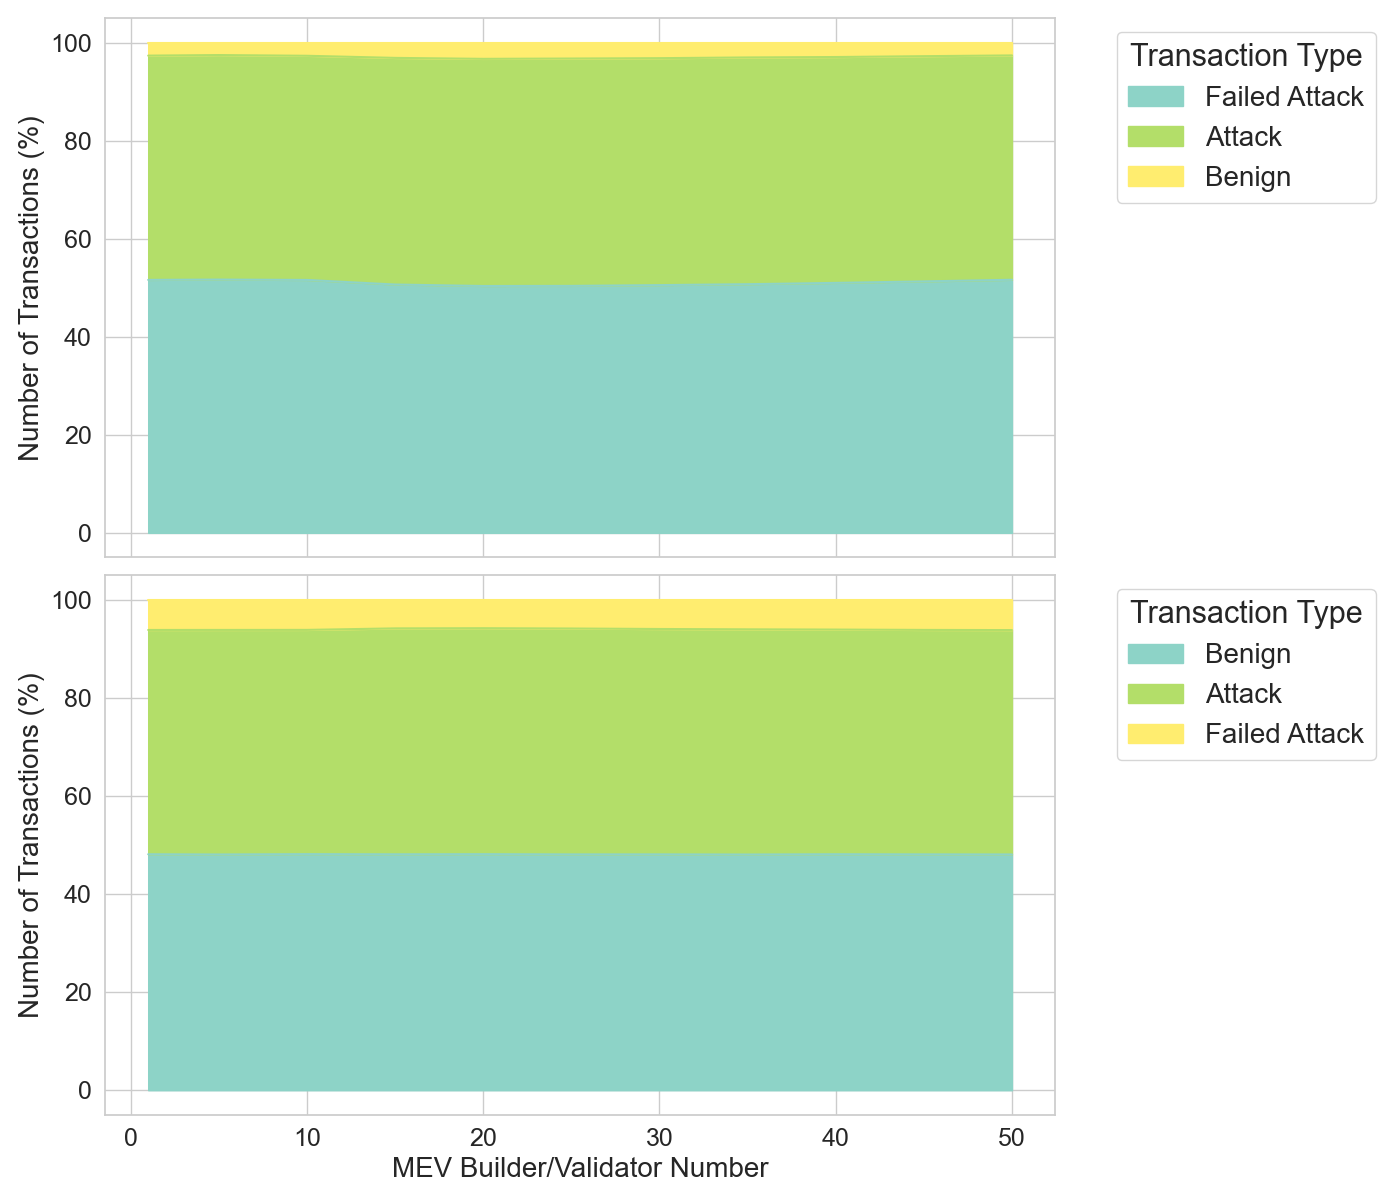
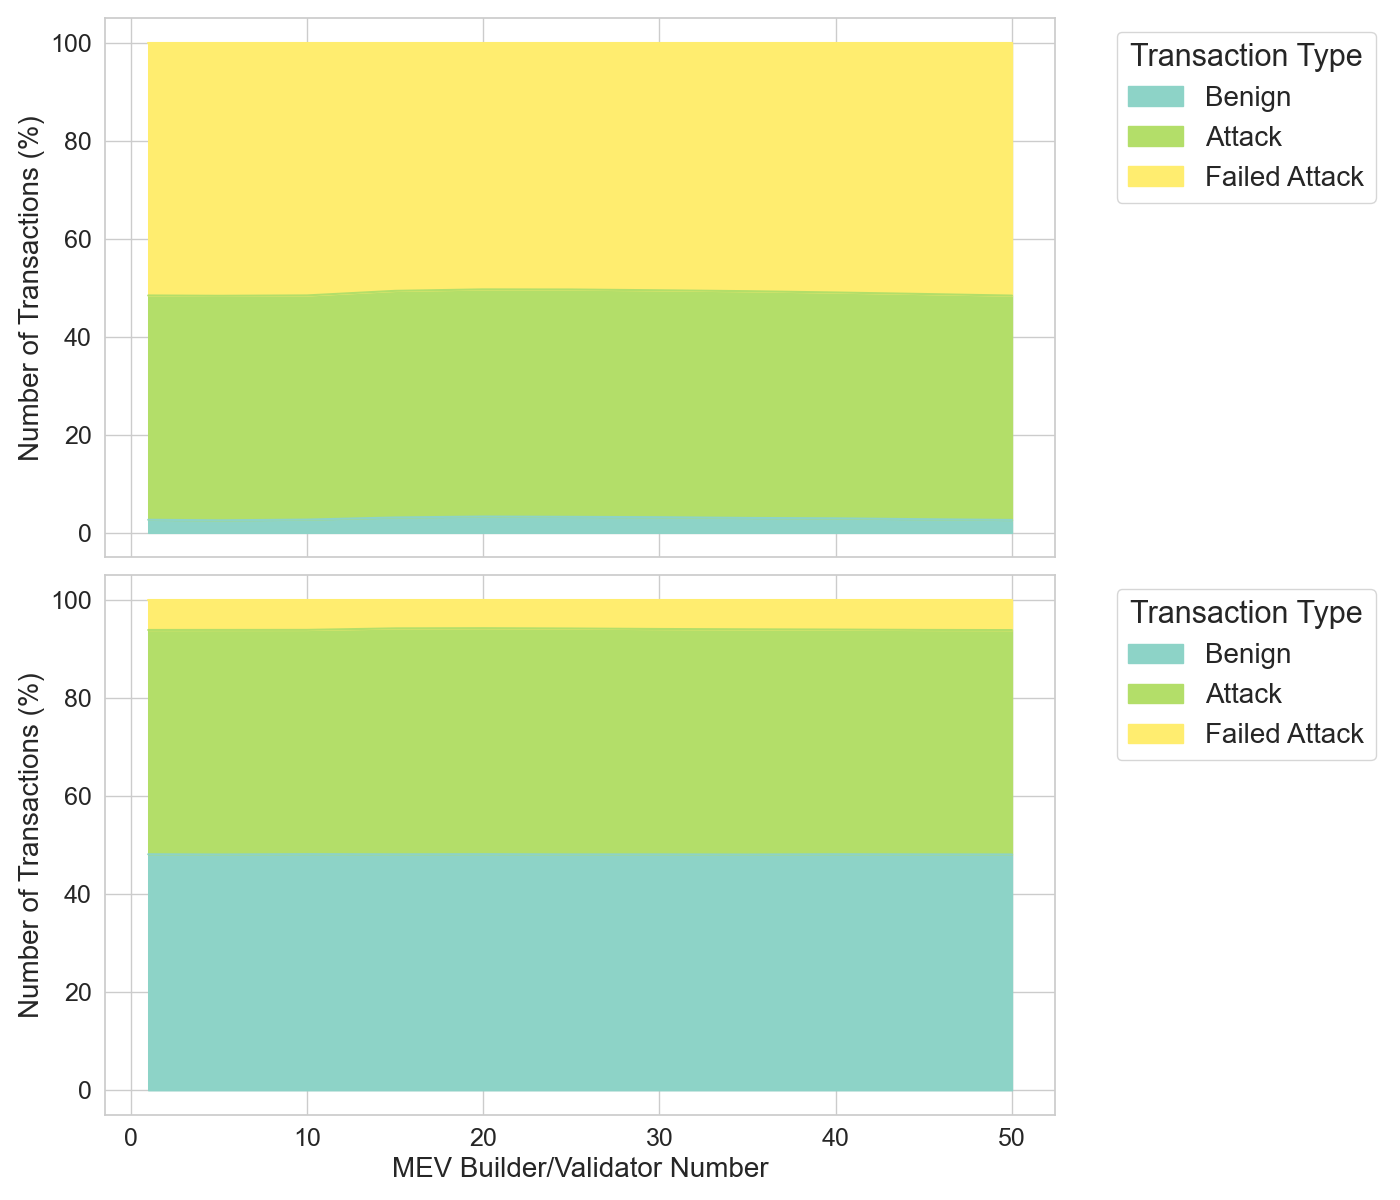
fix legend

Changed region(s): [[0.0921, 0.0308, 0.7371, 0.4317], [0.86, 0.1233, 0.9829, 0.1542], [0.86, 0.0617, 0.9829, 0.0925]]

diff --git a/plots/new/tx_inclusion.py b/plots/new/tx_inclusion.py
@@ -21,6 +21,7 @@ def load_and_aggregate_transaction_types(data_dir, mev_counts, num_runs):
                 pbs_df = pd.read_csv(pbs_dir)
                 pos_df = pd.read_csv(pos_dir)
 
+                # Ensure consistent ordering of categories
                 pbs_df['transaction_type'] = pbs_df['transaction_type'].replace({'b_attack': 'Attack', 'normal': 'Benign', 'failed': 'Failed Attack'})
                 pos_df['transaction_type'] = pos_df['transaction_type'].replace({'b_attack': 'Attack', 'normal': 'Benign', 'failed': 'Failed Attack'})
 
@@ -42,6 +43,9 @@ def load_and_aggregate_transaction_types(data_dir, mev_counts, num_runs):
 def plot_smooth_stacked_transaction_distribution(data_dir, mev_counts_to_plot, num_runs):
     transactions = load_and_aggregate_transaction_types(data_dir, mev_counts_to_plot, num_runs)
 
+    # Define the order of categories
+    category_order = ['Benign', 'Attack', 'Failed Attack']
+
     # Prepare the data for stacked area plots
     pbs_data = []
     pos_data = []
@@ -58,8 +62,8 @@ def plot_smooth_stacked_transaction_distribution(data_dir, mev_counts_to_plot, n
             })
 
     # Convert to DataFrames for easier plotting
-    pbs_df = pd.DataFrame(pbs_data).set_index('MEV Count').fillna(0)
-    pos_df = pd.DataFrame(pos_data).set_index('MEV Count').fillna(0)
+    pbs_df = pd.DataFrame(pbs_data).set_index('MEV Count').fillna(0).reindex(columns=category_order)
+    pos_df = pd.DataFrame(pos_data).set_index('MEV Count').fillna(0).reindex(columns=category_order)
 
     # Set larger font sizes
     plt.rc('axes', titlesize=24, labelsize=20)  # Titles and labels
